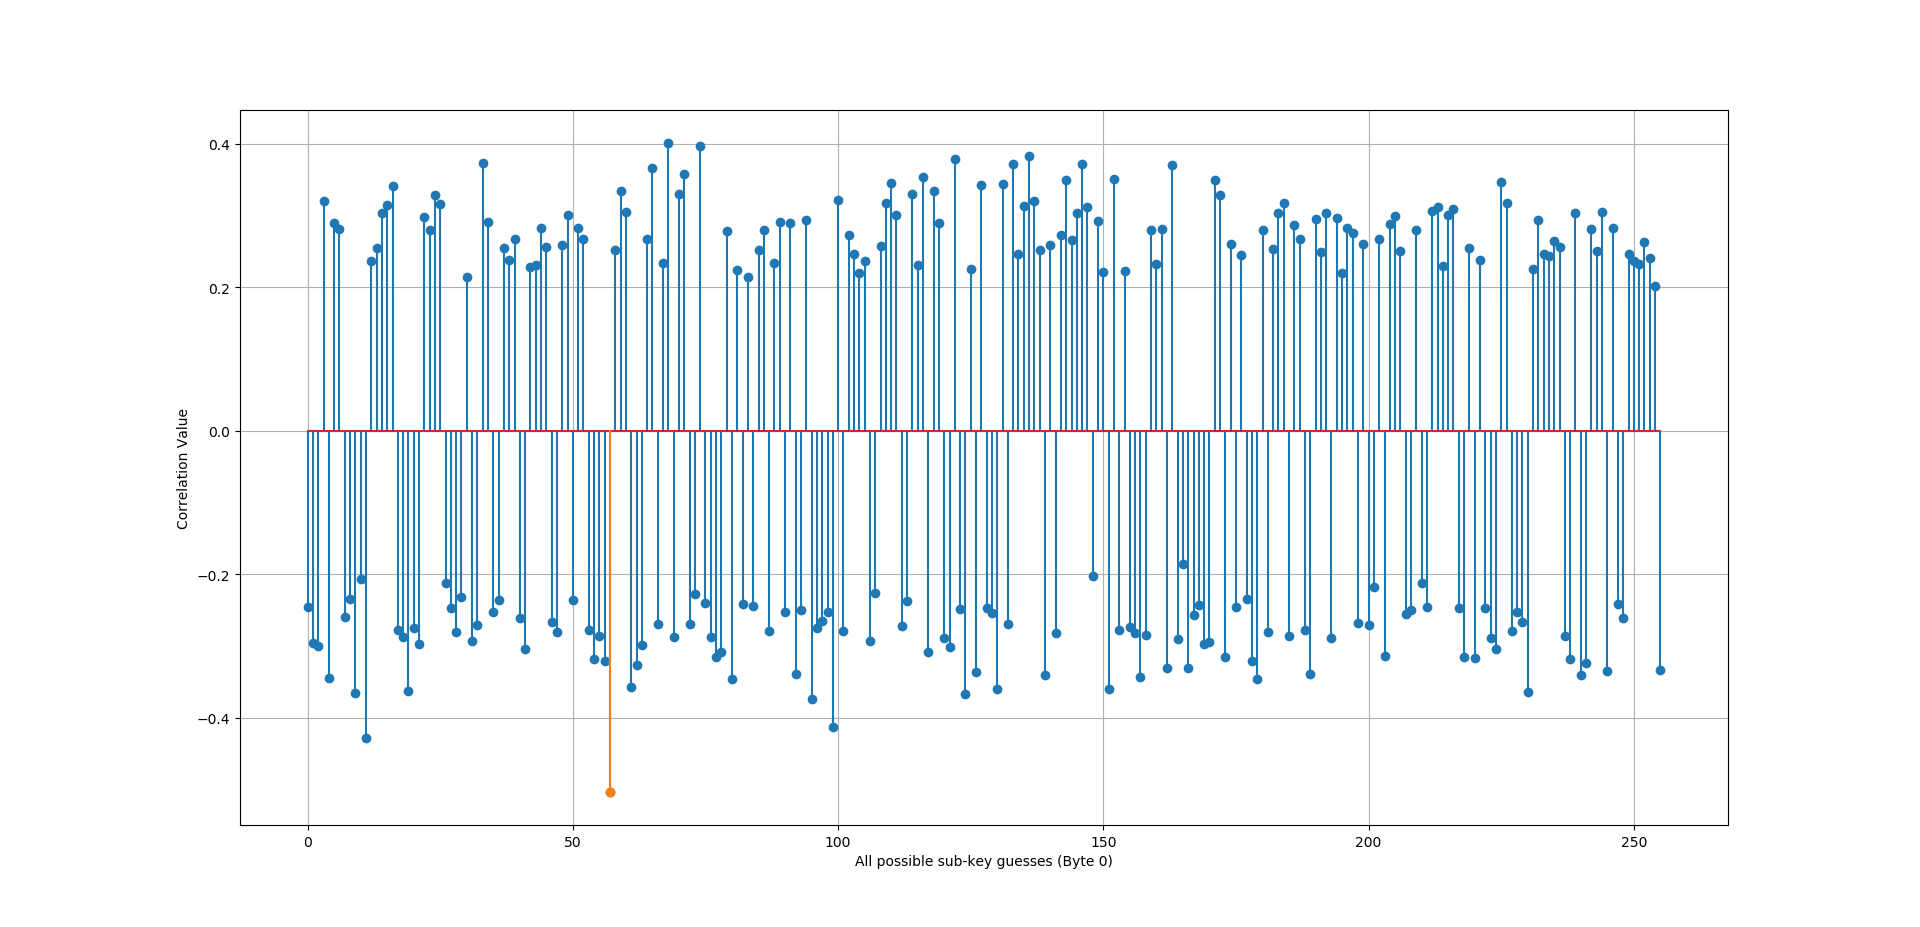
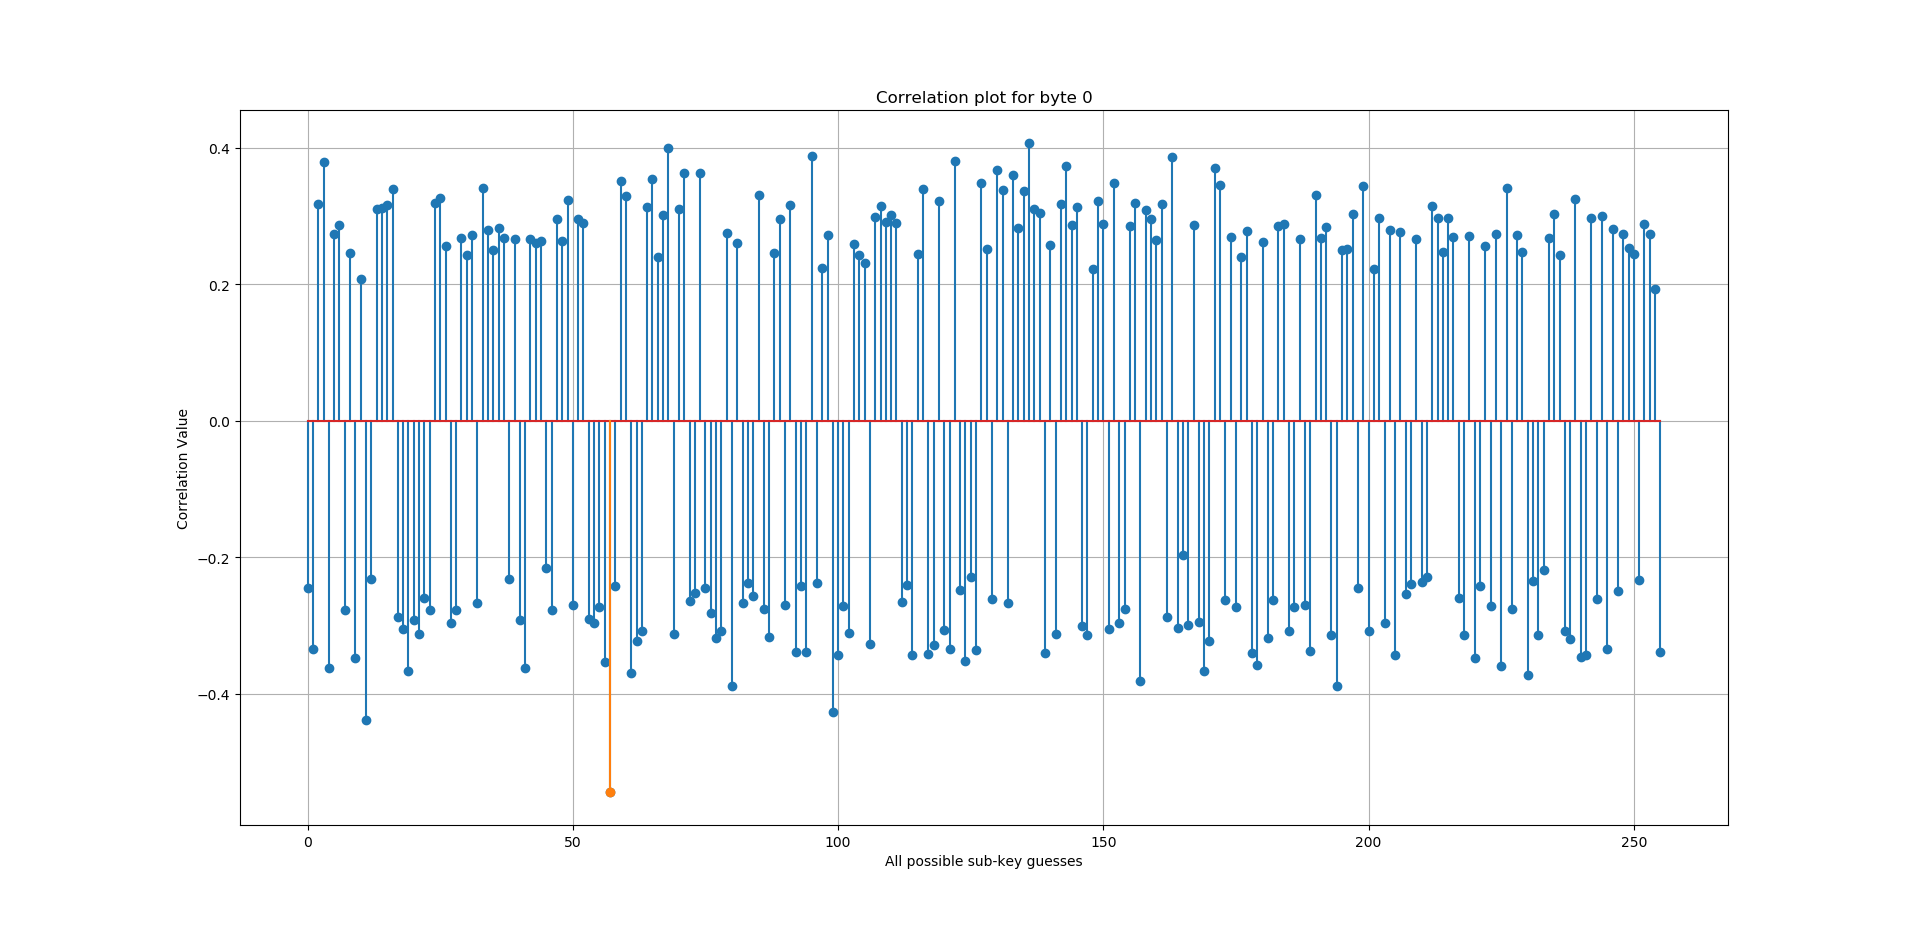
Added media files

diff --git a/Main.py b/Main.py
@@ -6,7 +6,6 @@ from CPA import CPA
 
 
 def main(argv):
-
     # inputfilename, startpt, endpt = getInputsArgv(argv)
     inputfilename, startpt, endpt, numTraces = getInputs()
     print("Processing ", inputfilename, "...")
@@ -18,20 +17,23 @@ def main(argv):
         VisualizeTracesDifferences(pt, ct, tracesPoints[:numTraces])
 
 
-def VisualizeCorrSingle(matrixRelation):
+def VisualizeCorrSingle(matrixRelations, byteNo):
 
+    matrixRelation = matrixRelations[byteNo]
     fig, axs = plt.subplots(1, 1)
     axs.stem(matrixRelation)
     axs.grid()
     # axs.stem(index, matrixRelation[index])
-    axs.stem([abs(matrixRelation).argmax()], [matrixRelation[abs(matrixRelation).argmax()]], linefmt="C1-", markerfmt="C1o")
+    axs.stem([abs(matrixRelation).argmax()], [matrixRelation[abs(matrixRelation).argmax()]], linefmt="C1-",
+             markerfmt="C1o")
 
-    axs.set_xlabel('All possible sub-key guesses (Byte 0)')
+    axs.set_xlabel('All possible sub-key guesses')
     axs.set_ylabel('Correlation Value')
+    plt.title("Correlation plot for byte "+ str(byteNo))
     plt.show()
 
-def VisualizeCorrAll(traceSets, matrixRelationMatList, keysize):
 
+def VisualizeCorrAll(traceSets, matrixRelationMatList, keysize):
     # Will be size of 16
     ylistContainer = []
 
@@ -52,7 +54,8 @@ def VisualizeCorrAll(traceSets, matrixRelationMatList, keysize):
     figures[figIndex].subplots_adjust(hspace=0.7, wspace=0.7)
 
     for index, ylist in enumerate(ylistContainer):
-        if index > numOfPlotsPerFig:
+
+        if plotIndex > numOfPlotsPerFig:
             figIndex += 1
             figures[figIndex] = plt.figure()
             figures[figIndex].subplots_adjust(hspace=0.7, wspace=0.7)
@@ -68,12 +71,10 @@ def VisualizeCorrAll(traceSets, matrixRelationMatList, keysize):
     plt.show()
 
 
-
 def VisualizeTracesDifferences(pt, ct, tracesPoints):
-
     keysize = 16
     # print("Range count", (math.floor(len(tracesPoints)/10)*10)+10)
-    traceSets = range(10, (math.floor(len(tracesPoints)/10)*10)+10, 10)
+    traceSets = range(10, (math.floor(len(tracesPoints) / 10) * 10) + 10, 10)
     cpaObjs = []
     # Will contain temp 16 sets of 20 (256 by 1) matrices for concat
     matrixRelationMatList = np.empty(shape=(keysize, len(traceSets)), dtype=object)
@@ -88,7 +89,7 @@ def VisualizeTracesDifferences(pt, ct, tracesPoints):
         # Do CPA
         print("Doing Correlational Power Analysis...")
         key = cpa.Analyse()
-        print("Key recovered with ", tracesPointsLen, " traces is ", [hex(k)+"|"+chr(k) for k in key])
+        print("Key recovered with ", tracesPointsLen, " traces is ", [hex(k) + "|" + chr(k) for k in key])
         # Size of 16
         currentMatrixRelations = cpa.GetMatrixRelations()
         # Populate matrix data for plotting later
@@ -101,13 +102,13 @@ def VisualizeTracesDifferences(pt, ct, tracesPoints):
     # print("matrixRelationMatList.shape", matrixRelationMatList.shape)
 
     print("Plotting single sub-key byte correlation plot...")
-    VisualizeCorrSingle(cpaObjs[index1].GetMatrixRelations()[0])
+    VisualizeCorrSingle(cpaObjs[index1].GetMatrixRelations(), 0)
+    VisualizeCorrSingle(cpaObjs[index1].GetMatrixRelations(), 1)
     print("Plotting all key bytes correlation plot...")
     VisualizeCorrAll(traceSets, matrixRelationMatList, keysize)
 
 
 def getInputs():
-
     defaultCSV = "waveform374samples_327_2047.csv"
     defaultStart = 327
     defaultEnd = 2047
@@ -116,18 +117,19 @@ def getInputs():
     print("Welcome to Power Analysis Tool!")
     print("===============================")
     print()
-    inputfilename = input("Please enter the name of the waveform file (Press <enter> to use default file): ") or defaultCSV
+    inputfilename = input(
+        "Please enter the name of the waveform file (Press <enter> to use default file): ") or defaultCSV
     print("File chosen: ", inputfilename)
     startpt = int(input("Please enter the start index (Press <enter> to use default start index): ") or defaultStart)
     print("Start index: ", startpt)
     endpt = int(input("Please enter the end index (Press <enter> to use default end index): ") or defaultEnd)
     print("End index: ", endpt)
-    numTraces = int(input("Please enter the max no. of traces to be use for analysis.\nNo. of trace will start from 10 and end at this amount in steps of 10 (Press <enter> to use all traces available in the file): ") or defaultNumTraces)
+    numTraces = int(input(
+        "Please enter the max no. of traces to be use for analysis.\nNo. of trace will start from 10 and end at this amount in steps of 10 (Press <enter> to use all traces available in the file): ") or defaultNumTraces)
     print("No. of traces to use: ", numTraces if numTraces != -1 else 'All')
     print()
 
     return inputfilename, startpt, endpt, numTraces
-
 
 
 def getInputsArgv(argv):
